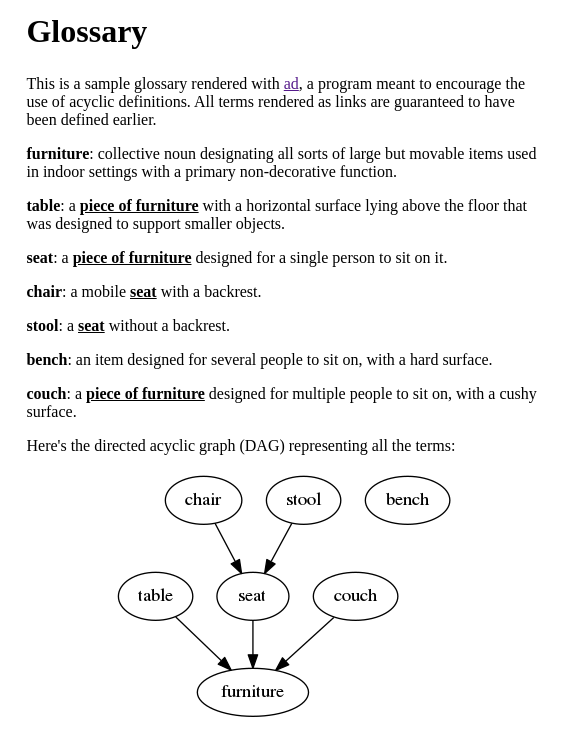
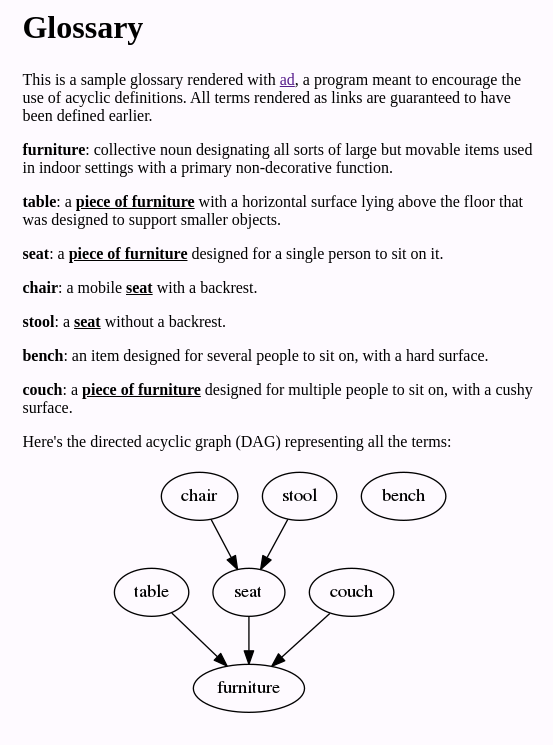
Make graph background transparent.

Changed region(s): [[0.0307, 0.093, 0.9837, 0.9609], [0.0307, 0.0, 0.2767, 0.062]]

diff --git a/examples/include/in-header.html b/examples/include/in-header.html
@@ -15,7 +15,10 @@ body {
   text-align: left;
   font-family: 'Droid Serif', serif;
 
-  background-color: white;
+  /* Set the background to something different the the default github
+     background color (white) so that a screenshot is identified as
+     such. */
+  background-color: #fefaff;
   color: black;
 }
 

diff --git a/src/dot.go b/src/dot.go
@@ -15,6 +15,7 @@ func outputDotHead() {
 	fmt.Printf(
 `digraph G {
   rankdir = TB;
+  bgcolor = "transparent";
 `)
 }
 

diff --git a/README.md b/README.md
@@ -7,7 +7,7 @@ must either have been already defined or appear in a distinctive
 font.
 
 Example of an HTML document rendered with the tool:
-<span style="border:1px solid black;">![Example](screenshot.png)</span>
+![Example](screenshot.png)
 
 Implementation
 --
